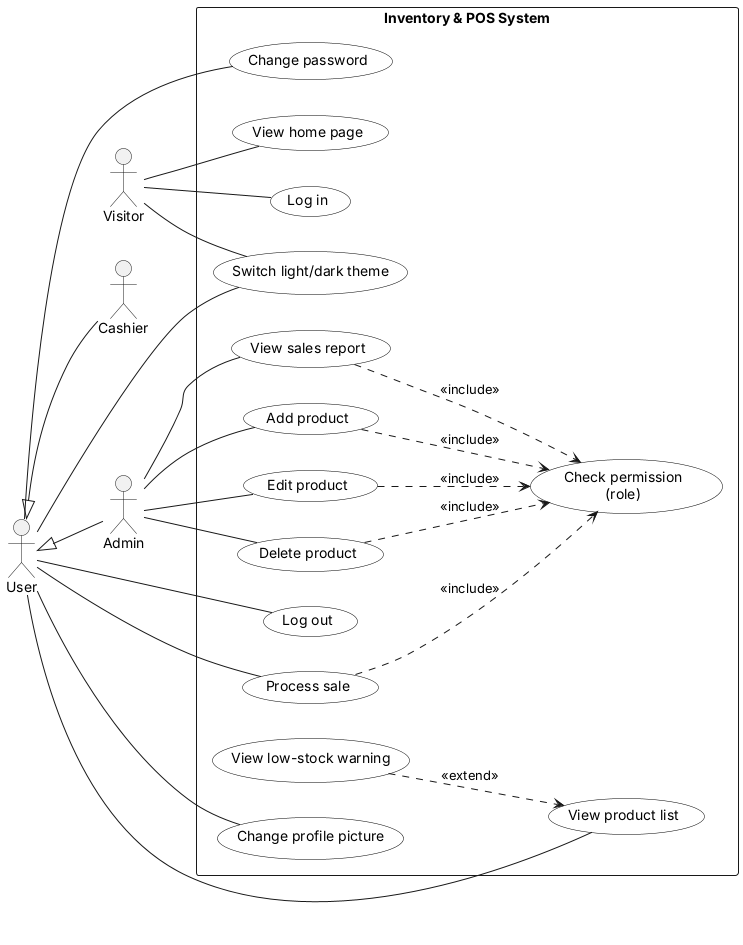
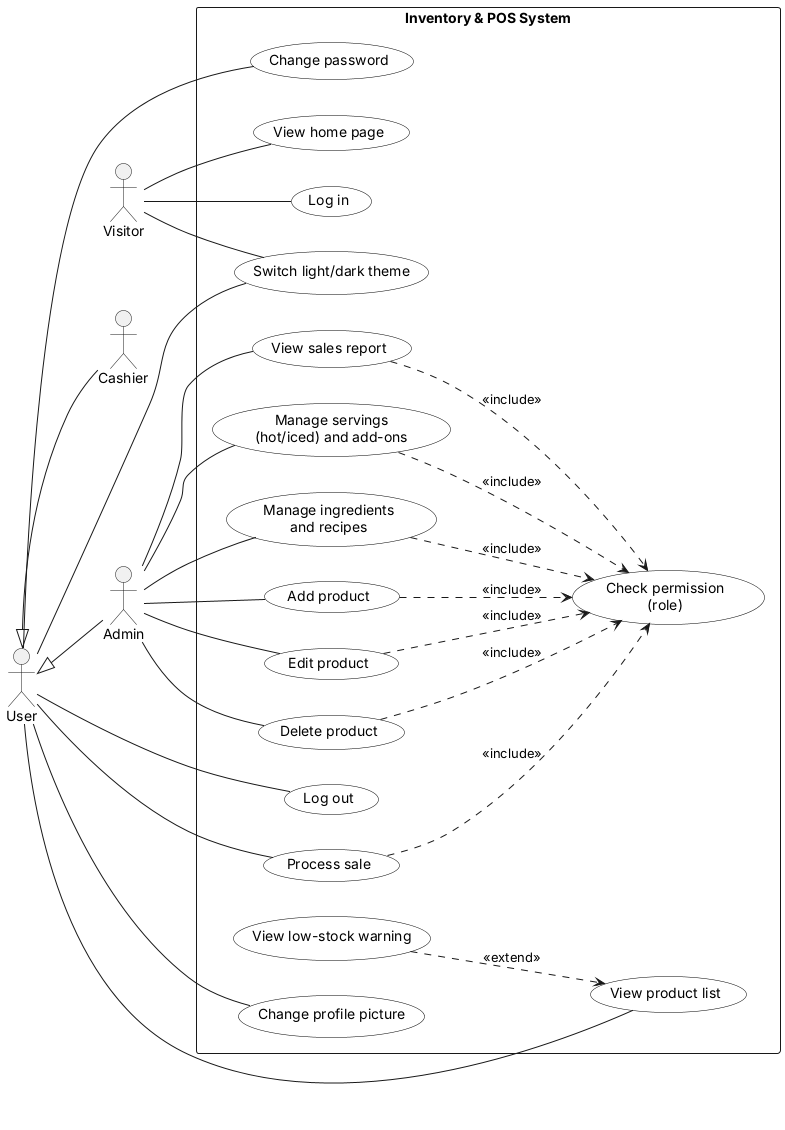
Docs: v0.14.4 to v0.17.3 (GCash, servings and add-ons, ingredients, demo sales fix)
Version history, stories F14-F16 (Hot / Iced wording), test cases
TC-14.19, TC-15.x, TC-16.x, TC-17.x (178 cases: 176 pass, 0 fail,
2 by hand), DEF-37 to DEF-42, security table rows, UC-14 and UC-15,
diagram and known limitations.

Claude-Session: https://claude.ai/code/session_01AnRZgfVLrJe4aroni2zZdi

diff --git a/project_documentation_draft.md b/project_documentation_draft.md
@@ -1,7 +1,7 @@
 # Inventory & POS System — Project Documentation Draft
 
 > **Living document.** Add to it after every iteration (version tag). Don't wait until the end.
-> This draft covers the system up to **v0.14.3** (2026-10-09). Versions v0.8.2–v0.14.3 were implemented and tested by Claude on request
+> This draft covers the system up to **v0.17.3** (2026-10-09). Versions v0.8.2–v0.17.3 were implemented and tested by Claude on request
 > (time constraint: finals), following the same branch → pull request → merge → tag workflow and the stabilization rule.
 > Rebuilt on 2026-10-03 from the Git history and the source code, and tested against v0.7.0.
 >
@@ -33,7 +33,7 @@
 | Project name | Inventory & POS (Point-of-Sale) System |
 | Type | Web application |
 | Developer | Solo project |
-| Business purpose | Help a small store keep track of its products and stock and record sales at the counter. From v0.14.0 the demo shop is a **café** (coffee and pastries), because a café owner is interested in the project |
+| Business purpose | Help a small store keep track of its products and stock and record sales at the counter. From v0.14.0 the demo shop is a **café** (coffee and pastries), because a café owner is interested in the project. From v0.15.0–v0.17.0 it handles what that café needs: **GCash payments, Hot / Iced and add-ons, and ingredient stock with recipes**. The café's real menu and photos are loaded only on the student's computer (`local_demo/`, not on GitHub) |
 | Language / framework | Python 3.11.9, Flask 3.1.3 |
 | Database | SQLite, accessed through Flask-SQLAlchemy 3.1.1 |
 | Login and security | Flask-Login 0.6.3; passwords hashed with Werkzeug (scrypt); CSRF tokens, login attempt limit, secret key outside the code (v0.13.1–v0.13.5) |
@@ -87,7 +87,10 @@ Specification, development and validation are *interleaved* (they overlap) inste
 | v0.13.0 | Modern theme: left sidebar, light/dark switch, dashboard home | Yes: same features, new look |
 | v0.13.1–v0.13.5 | Security patches: secret key, CSRF, login limit, debug off + headers, change password | Yes: each attack re-run and now blocked |
 | v0.14.0 | Product pictures, tap-to-add menu on New Sale, café demo menu | Yes |
-| v0.14.1–v0.14.3 | Stabilization patches: long names, menu order + remembered category, phone basket bar | Yes |
+| v0.14.1–v0.14.4 | Stabilization patches: long names, menu order + remembered category, phone basket bar, basket Remove button | Yes |
+| v0.15.0 | Payment method: Cash or GCash (reference number) | Yes |
+| v0.16.0–v0.16.1 | Servings (sizes) and add-ons for drinks (+ edge-case patch) | Yes |
+| v0.17.0–v0.17.3 | Ingredients, recipes and ingredient history (+ deleted-product recipe patch, Hot / Iced wording, demo sales fix) | Yes: drinks are limited by milk and beans on hand |
 | v1.0.0 → | Presentation release (planned) | — |
 
 **Why incremental, and not the other two?**
@@ -158,6 +161,15 @@ The tag message summarizes what the increment added.
 | v0.14.1 | 2026-10-09 | `2795482` | Very long names wrap on the menu and in tables *(pull request #28)* |
 | v0.14.2 | 2026-10-09 | `afea681` | Menu in category order; chosen category kept after each tap *(pull request #29)* |
 | v0.14.3 | 2026-10-09 | `e598e88` | Phone basket bar; table columns stay readable *(pull request #30)* |
+| — | 2026-10-09 | — | Documentation update for v0.13.1–v0.14.3 *(pull request #31, no tag)* |
+| v0.14.4 | 2026-10-09 | `8a34326` | Basket Remove button always visible; menu and basket side by side from 1200 px *(pull request #32)* |
+| v0.15.0 | 2026-10-09 | `aa44988` | Cash or GCash payment with a 13-digit reference; receipt and report show the method *(pull request #33)* |
+| v0.16.0 | 2026-10-09 | `40555c0` | Sizes and add-ons: admin page, drink window on New Sale, options on receipts *(pull request #34)* |
+| v0.16.1 | 2026-10-09 | `2f97c8d` | Sizes/add-ons edge cases: unticked product, very long add-on list *(pull request #35)* |
+| v0.17.0 | 2026-10-09 | `4492d92` | Ingredients, recipes, can-make counts, ingredient history; sales use ingredients up *(pull request #36)* |
+| v0.17.1 | 2026-10-09 | `63f9d53` | A deleted product's recipe is deleted too (no inherited recipes) *(pull request #37)* |
+| v0.17.2 | 2026-10-09 | `da4a932` | The one-of choice is called a *serving*, so the café's Hot / Iced reads naturally (sizes still possible) *(pull request #38)* |
+| v0.17.3 | 2026-10-09 | `a7cd2e5` | Demo sales include products whose stock comes from ingredients (no more ₱0 demo receipts) *(pull request #39)* |
 
 *From v0.8.2 the Commit column shows the commit with the change; the tag sits on the GitHub merge commit of that pull request.
 Pull request numbers assume the versions were published in order in one session.*
@@ -298,6 +310,30 @@ At the counter, Juan opens **New Sale** and sees the menu as picture tiles group
 *(v0.14.2)*. Each tile shows what is left ("3 left" in amber when low). The basket sits beside the menu on the
 laptop; on his phone a bar at the bottom shows *"2 items · ₱190.00 — Pay"* and jumps to the basket *(v0.14.3)*.
 For an exact quantity he can still use the product list and the Quantity box below the menu.
+
+### Story F14 — Paying by GCash *(v0.15.0)*
+A customer orders a Sea Salt and a croffle (₱340.00) and wants to pay by GCash. Juan taps **GCash** in the payment box:
+the cash fields disappear and a box asks for the **reference number**. The customer pays in the GCash app and shows the
+receipt; Juan types its 13-digit reference (`1023 456 789012`) and checks that the amount is ₱340.00, then clicks
+**Complete Sale**. The receipt says *Paid by GCash* with the reference and no change. If he types a reference that was
+already used, the system names the earlier receipt. At closing, the Sales Report shows revenue split into cash (what
+should be in the drawer) and GCash.
+
+### Story F15 — Hot / Iced and add-ons *(v0.16.0–v0.16.1, wording v0.17.2)*
+Maria sets up the servings (**Hot** and **Iced**, same price; v0.16.0 called them sizes, and a shop can still use
+12oz / 16oz +₱20) and the café's upgrades (Espresso +₱30, Sub Oat +₱40, Cold Foam +₱30…) on the **Servings & Add-ons**
+page, and ticks "Drink" on each latte. The Iced serving has its own recipe: 150 g of ice and an iced cup. When Juan
+taps **Sea Salt**, a small window opens: he picks **Iced** and **Sub Oat**, and the button shows *Add 1 · ₱220.00*.
+The basket shows the line as *Sea Salt — Iced, Sub Oat*, separate from a Hot Sea Salt, and the receipt keeps the
+options and the price paid, even if the add-on price changes later.
+
+### Story F16 — Ingredients and recipes *(v0.17.0–v0.17.1)*
+Maria enters what is in the stock room on the **Ingredients** page (espresso beans 3,000 g, fresh milk 10,000 ml, oat milk
+2,000 ml, croissant dough 24 pcs…) and a **recipe** for each product: one Sea Salt uses 18 g of beans, 160 ml of milk and
+40 ml of cream; Sub Oat replaces the fresh milk with oat milk; a 16oz uses 1.33 times as much. The menu now shows how
+many of each drink can still be made. When the oat milk runs low, Home warns her; when a delivery arrives she clicks
+**Restock** (+2,000 ml), and after counting the shelf at night she uses **Count**. Every change (each sale, delivery
+and count) appears in the ingredient history with who did it and which receipt it belongs to.
 
 ---
 
@@ -590,13 +626,67 @@ Each row is an attack or misuse tried on purpose (on the code published as v0.13
 | TC-14.16 | Phone, basket table | Read the names | Normal names on one line | **v0.14.1–v0.14.2:** "Ensaymada" one letter per line · **v0.14.3:** fixed | ❌→✅ DEF-36 |
 | TC-14.17 | `seed_demo_data.py --fresh` at 3:30 PM | Run it | Old database renamed as a backup; 22 café items; sales for 7 days + today until 3:30 PM only; receipt numbers in time order | As expected (today: 4 sales, 7:09 AM–2:32 PM) | ✅ |
 | TC-14.18 | All earlier tests | Full regression (10 suites + avatar + security + pictures) | Everything passes | As expected | ✅ |
+| TC-14.19 | Window 992–1360 px wide, 3 items in the basket | Look at the basket | Remove (×) button visible on every line | **v0.14.3:** cut off at the right edge · **v0.14.4:** visible at 390, 768, 992, 1100, 1199, 1200 and 1360 px | ❌→✅ DEF-37 |
+
+### F14 — Payment method *(v0.15.0)*
+
+| ID | Precondition | Steps / input | Expected result | Actual result | Pass? |
+|---|---|---|---|---|---|
+| TC-15.1 | Database from v0.14 | Start the app | `payment_method`, `payment_reference` and a unique index added; old sales count as cash | As expected | ✅ |
+| TC-15.2 | Basket ₱360 | Pay cash ₱400 (old form, no method sent) | Cash, change ₱40 | As expected | ✅ |
+| TC-15.3 | Basket ₱360 | GCash, reference `1234 567 890123` | Saved as 13 digits, cash = total, change 0, stock deducted | As expected | ✅ |
+| TC-15.4 | GCash sale | Open the receipt | "Paid by GCash" + reference, no Change line | As expected | ✅ |
+| TC-15.5 | Basket | GCash references: 12 digits, 14 digits, letters, Arabic digits, empty | Refused, nothing saved, stock unchanged | As expected (5 cases) | ✅ |
+| TC-15.6 | Reference already used | GCash with the same reference | Refused, names the earlier receipt | As expected | ✅ |
+| TC-15.7 | Two sales with the same reference at the same moment | Save both | Database refuses the second (unique index) | As expected | ✅ |
+| TC-15.8 | Basket | Method `card` (not offered) | Refused | As expected | ✅ |
+| TC-15.9 | Sales of both kinds | Sales Report | Revenue split "Cash ₱… · GCash ₱…"; Paid by column | As expected | ✅ |
+| TC-15.10 | Browser | Tap GCash, then Cash | Cash boxes hide/show; empty reference blocked by the browser; change preview still works | As expected | ✅ |
+
+### F15 — Sizes and add-ons *(v0.16.0, v0.16.1)*
+
+| ID | Precondition | Steps / input | Expected result | Actual result | Pass? |
+|---|---|---|---|---|---|
+| TC-16.1 | Database from v0.15 | Start the app | `menu_option` table, `has_options`, `options` columns added | As expected | ✅ |
+| TC-16.2 | Admin | Add sizes and add-ons; duplicate name, negative/nan price, 51-char name, unknown kind | Saved / each refused with a message | As expected | ✅ |
+| TC-16.3 | Cashier | Open or post to Sizes & Add-ons | 403 | 403 | ✅ |
+| TC-16.4 | Sea Salt ₱180 | 2 × 16oz + Sub Oat + Espresso | One line, ₱270.00 each, ₱540.00 | As expected | ✅ |
+| TC-16.5 | Same choice ticked in another order | Add | Joins the same line | As expected | ✅ |
+| TC-16.6 | 3 in stock, 2 in basket (any sizes) | Add 2 more | Refused: only 1 more | As expected | ✅ |
+| TC-16.7 | — | Size id of an add-on, unknown size, size as add-on, non-number add-on | Refused | As expected | ✅ |
+| TC-16.8 | List form (no size sent) / croffle with options sent | Add | Default size at base price / options ignored | As expected | ✅ |
+| TC-16.9 | Two lines of one product | Remove one line | Only that line removed | As expected | ✅ |
+| TC-16.10 | Basket with options | Complete; then raise the add-on price | Receipt keeps options + price paid; stock reduced by all lines; report counts the product once | As expected | ✅ |
+| TC-16.11 | Line in basket | Admin unticks "sizes and add-ons" on that product | Line taken out with a message | **v0.16.0:** sold as "16oz" at the size price · **v0.16.1:** taken out | ❌→✅ DEF-38 |
+| TC-16.13 | Servings Hot and Iced (₱0); Iced recipe: 150 g ice + 1 iced cup | Iced Sea Salt + Sub Oat, and a Hot Campfire Latte; complete | ₱220.00 and ₱190.00; ice −150 g, iced cups −1, hot cups −1, oat milk −180 ml, fresh milk unchanged | As expected (v0.17.2) | ✅ |
+| TC-16.14 | Café menu | Look at the tiles and the drink window | Tiles say "Hot / Iced · add-ons"; window says "Serving"; admin page "Servings & Add-ons" | **v0.16.0–v0.17.1:** "Size" · **v0.17.2:** as expected | ❌→✅ DEF-41 |
+| TC-16.12 | 6 add-ons with 50-character names | Complete the sale | Options text fits the 200-character column | **v0.16.0:** 316 characters saved · **v0.16.1:** shortened with "…" | ❌→✅ DEF-39 |
+
+### F16 — Ingredients and recipes *(v0.17.0, v0.17.1)*
+
+| ID | Precondition | Steps / input | Expected result | Actual result | Pass? |
+|---|---|---|---|---|---|
+| TC-17.1 | Admin | Add ingredients; duplicate name, unit `kg`, negative warn-at | Saved / refused | As expected | ✅ |
+| TC-17.2 | Ingredient | Restock +1000; restock 0, -5, nan, abc, 1e12 | Added and written in the history / refused | As expected | ✅ |
+| TC-17.3 | Cream 400 ml | Count = 380 | Set to 380, history shows -20 | As expected | ✅ |
+| TC-17.4 | Recipes | Product: negative amount, same ingredient twice / add-on: negative amount | Refused, refused / allowed (replaces milk) | As expected | ✅ |
+| TC-17.5 | Milk 1,000 ml; Sea Salt uses 180 ml | Products list and New Sale | "5 can make", Low badge; tile "5 left" | As expected | ✅ |
+| TC-17.6 | 2 × 16oz (scale 1.5) in the basket | New Sale | "2 left" (460 ml ÷ 180) | As expected | ✅ |
+| TC-17.7 | Not enough milk for 2 more | Add | Message names the ingredient and amounts | "Not enough Fresh milk … 1,080 ml, only 1,000 ml on hand" | ✅ |
+| TC-17.8 | Basket: 2 × 16oz, 1 × Sub Oat, 1 croffle | Complete | Milk 460, oat 1,820, beans 928, cream 220; croffle 3 → 2; history lines linked to the receipt | As expected | ✅ |
+| TC-17.9 | Milk drops to 100 ml before checkout | Complete | Refused, nothing saved | As expected | ✅ |
+| TC-17.10 | Another till uses up every ingredient between the check and the save | Complete | Whole sale cancelled, croffle stock restored | As expected | ✅ |
+| TC-17.11 | 20 cashiers sell a latte at the same moment, milk for 5 | Complete all | Exactly 5 sold, milk 0, never negative, history adds up | 5 completed, 15 refused, 0 errors | ✅ |
+| TC-17.12 | Cashier | Ingredients / recipe pages; another recipe's line; unknown kind | 403 / 404 / 404 | As expected | ✅ |
+| TC-17.13 | Product with a recipe, never sold | Delete it, then add a new product (SQLite reuses the id) | New product has no recipe | **v0.17.0:** new cookie inherited the recipe (could sell 4 instead of 20) · **v0.17.1:** no recipe | ❌→✅ DEF-40 |
+| TC-17.14 | Café menu in `local_demo/` (every product has a recipe, quantity 0) | `python seed_demo_data.py --fresh` | Real demo sales with items and totals | **v0.17.2:** 56 receipts of ₱0.00 with no items (Home showed 8 sales but only the newest one's revenue) · **v0.17.3:** 52 real sales | ❌→✅ DEF-42 |
 
 > **How these were run (F8–F10, patches):** on 2026-10-09 by Claude, using the Flask test client, a threaded server
 > for TC-7.26, and a real browser (Chromium with Bootstrap) for the screen checks (TC-8.8, TC-10.3, TC-10.4) and the
 > change preview. Every version was also re-run against **all earlier tests** (regression). Hand checks and
 > screenshots by Yesha are still to do for the report.
 
-### Test summary (v0.7.0 → v0.14.3)
+### Test summary (v0.7.0 → v0.17.3)
 
 | Feature | Cases | ✅ Pass | ❌ Fail | ⚠/⏳ Other |
 |---|---|---|---|---|
@@ -614,8 +704,11 @@ Each row is an attack or misuse tried on purpose (on the code published as v0.13
 | F10 Profile picture | 11 | 11 | 0 | 0 |
 | F11 Modern theme | 9 | 7 → **9** | 2 → **0** | 0 |
 | F12 Security | 14 | 8 → **14** | 6 → **0** | 0 |
-| F13 Pictures + café | 18 | 13 → **18** | 5 → **0** | 0 |
-| **Total** | **139** | **101 → 137** | **35 → 0** | **3 → 2** |
+| F13 Pictures + café | 19 | 13 → **19** | 6 → **0** | 0 |
+| F14 Payment method | 10 | 10 | 0 | 0 |
+| F15 Servings + add-ons | 14 | 11 → **14** | 3 → **0** | 0 |
+| F16 Ingredients | 14 | 12 → **14** | 2 → **0** | 0 |
+| **Total** | **178** | **134 → 176** | **41 → 0** | **3 → 2** |
 
 *F1–F6: numbers shown as v0.7.0 → v0.7.1; on 2026-10-04 the full suite was re-run against the merged v0.7.1 code (`6043cdb`): all five failures now pass, and every test that passed before still passes. Checking that old features still work after a change is called **regression testing**. F7: numbers shown as first run → v0.8.1; on 2026-10-08 the F1–F6 suite was re-run against v0.8.0 and still passes.*
 
@@ -665,6 +758,17 @@ Each row is an attack or misuse tried on purpose (on the code published as v0.13
 | DEF-34 | Medium (usability) | Each tap reloaded the menu back to "All", so the cashier had to choose the category again for every item | v0.14.x stabilization (TC-14.14) | Chosen category remembered for the browser tab | ✅ Fixed v0.14.2 |
 | DEF-35 | Medium (usability) | On phones the basket and Pay button were below the whole menu | v0.14.x stabilization (TC-14.15) | Bottom bar with item count and total that jumps to the basket | ✅ Fixed v0.14.3 |
 | DEF-36 | Medium (regression from v0.14.1) | On phones, basket names were squeezed to one letter per line | v0.14.x stabilization (TC-14.16) | Table cells wrap only long words; names kept 8–22rem wide | ✅ Fixed v0.14.3 |
+| DEF-37 | Medium (usability) | Between about 990 and 1360 px wide, the basket's Remove (×) button was cut off | Screenshot review while testing v0.15.0 (TC-14.19) | Quantity under the name, tighter cells, side-by-side only from 1200 px | ✅ Fixed v0.14.4 |
+| DEF-38 | Medium | Unticking "sizes and add-ons" on a product left basket lines that were then sold with the size price | v0.16.x stabilization (TC-16.11) | Such lines are taken out with a message | ✅ Fixed v0.16.1 |
+| DEF-39 | Low | Many long add-on names gave options text longer than the 200-character column | v0.16.x stabilization (TC-16.12) | Shortened with "…" | ✅ Fixed v0.16.1 |
+| DEF-40 | **High** (data integrity) | Deleting a never-sold product left its recipe; SQLite gave the id to the next product, which inherited the recipe | v0.17.x stabilization (TC-17.13) | Recipe deleted with the product; start-up removes leftovers | ✅ Fixed v0.17.1 |
+| DEF-41 | Low (usability) | The café sells drinks Hot or Iced, but the screens said "Size", so "Size: Iced" read wrongly | Choice made with Yesha for the café (TC-16.14) | The choose-one group is called a *serving* on every screen; tiles list the servings ("Hot / Iced") | ✅ Fixed v0.17.2 |
+| DEF-42 | Medium (demo data) | With the café's menu every product gets its stock from ingredients (quantity 0), so the demo sales found no product to sell and created only empty ₱0.00 receipts | Screenshot review of v0.17.2 (Home: 8 sales, ₱570.00) (TC-17.14) | Demo sales pick products that can be made (`stock_levels()`); no sales are created if nothing can be sold; new `test_seed.py` checks both menus | ✅ Fixed v0.17.3 |
+
+> **Note on the test tools (v0.16.0):** two race tests (TC-7.24–7.26) found the "other cashier" moment by counting
+> database look-ups, which changed when the basket code changed, so they briefly reported false failures. They now
+> step in right before the stock update itself, and pass on both the old and the new code. Lesson: a test should
+> depend on *what* the code does, not on *how* it is written.
 
 > **How the v0.7.1 fix works.** All checks live in one function, `validate_product_form()` in `app.py`, used by
 > both Add and Edit (the **DRY** principle: Don't Repeat Yourself). It returns either clean data or an error
@@ -675,18 +779,19 @@ Each row is an attack or misuse tried on purpose (on the code published as v0.13
 > column) needs a **migration**: a small, deliberate script run once, after a backup. Real projects use a migration
 > tool (e.g. Flask-Migrate) to keep these in order.
 
-> **Known limitations after v0.14.3** (future increments):
-> - **Drinks are counted as cups, not ingredients.** A real café runs out of milk or beans, not "lattes". Fix: recipes (each drink uses grams of beans and ml of milk) and ingredient stock.
-> - **Sizes are separate products** (Latte 12oz and 16oz). Fix: product *variants* (one product, several sizes and prices).
+> **Known limitations after v0.17.3** (future increments):
+> - **Recipe amounts are estimates** (e.g. 18 g beans per shot, 150 g ice for Iced) until the café owner confirms them; the admin can edit them. If a shop uses sizes instead, a size's scale also multiplies add-ons (an extra shot in a 16oz counts 1.33 shots).
+> - **GCash is recorded, not verified:** the cashier checks the amount on the customer's screen. Automatic checking needs a GCash merchant account.
+> - **Count (stock count) overwrites** an ingredient's amount on purpose; a sale at that exact moment would be overwritten (Restock adds safely).
+> - **The shop name on receipts is fixed** ("Inventory & POS").
 > - **Sold-out items are hidden from the menu** instead of shown greyed out.
 > - **Product pictures and avatars are files on disk**, so backing up the database alone does not back them up.
 > - **The login limit is kept in memory**, so restarting the app clears it, and **nobody can reset a forgotten password** except by changing it in the database. Fix: an admin "reset password" page.
 > - **No Content-Security-Policy header** yet, because the pages use inline scripts and CDN files.
 > - **Styling comes from the internet** (Bootstrap, icons and font from CDNs, i.e. content delivery networks). Without internet the system still works but looks unstyled. Fix: save those files in `static/` so it runs fully offline.
 > - **The light/dark choice is saved per browser**, not per user account.
-> - **Cash only.** GCash/card would need a payment-method choice, recorded but not connected to GCash itself, which needs a merchant account.
 > - **No refunds or voids.** To be handled by a *void with admin approval* flow (Completed → Void requested → Voided / Rejected), which also gives the state diagram.
-> - **Editing a product's stock overwrites it with the number typed in.** If a sale happens while the edit form is open, that sale's deduction is overwritten. Fix: "restock by amount" plus a **stock ledger** (a record of every stock change).
+> - **Editing a product's stock overwrites it with the number typed in** (products without a recipe). Ingredients already have Restock-by-amount and a history (v0.17.0); products could get the same.
 > - **Sold products can't be deleted, only set to 0**, so they stay in the list with an "Out of stock" badge. Fix: an "archive" option.
 > - **One low-stock threshold (5) for every product.** Fix: a per-product threshold (needs a database column, i.e. a migration).
 > - **Money stored as `Float`**, rounded to centavos. Real POS systems store whole centavos or `Decimal`.
@@ -710,6 +815,9 @@ Good material for the professor's Lecture 11 (security terminology, vulnerabilit
 | Cashier uses admin pages | Products, reports | `@admin_required` → 403 | TC-6.x | ✅ since v0.7.0 |
 | Upload a harmful file as a "picture" | Server, other users | Content check (PNG/JPG/WebP bytes), 2 MB limit, random names, `nosniff` | TC-11.5–11.7, TC-14.3, TC-14.9 | ✅ |
 | Two sales take the last item at once | Stock accuracy | Atomic conditional update | TC-7.24–7.26 | ✅ since v0.8.2 |
+| Two tills use the same milk at once | Ingredient stock | Same atomic update for every ingredient; whole sale cancelled otherwise | TC-17.10, 17.11 | ✅ v0.17.0 |
+| Reuse one GCash payment for two purchases | Café's money | Reference number must be unique (checked + unique index) | TC-15.6, 15.7 | ✅ v0.15.0 |
+| Untraceable stock changes | Ingredient stock | Ingredient history: every sale, restock and count with user and time | TC-17.2, 17.3, 17.8 | ✅ v0.17.0 |
 
 Words used: **threat** (something that could cause harm), **vulnerability** (a weakness it can use), **control**
 (the protection), **attack** (an attempt to exploit a vulnerability).
@@ -739,6 +847,8 @@ then a tabular description of each, in the format of Sommerville's Lecture 5 p. 
 | UC-11 | Change profile picture | User (Admin and Cashier) | Built (v0.12.0) |
 | UC-12 | Switch light/dark theme | Visitor and User | Built (v0.13.0) |
 | UC-13 | Change password | User (Admin and Cashier) | Built (v0.13.5) |
+| UC-14 | Manage servings and add-ons | Admin | Built (v0.16.0) |
+| UC-15 | Manage ingredients and recipes | Admin | Built (v0.17.0) |
 
 **Relationships between use cases** (needed for the diagram):
 - UC-05, UC-06, UC-07, UC-08 and UC-10 all **«include»** a hidden step, *Check permission (role)*. «include» means
@@ -879,6 +989,28 @@ then a tabular description of each, in the format of Sommerville's Lecture 5 p. 
 | **Stimulus** | Avatar menu → Change password, fill in the form, click Change password |
 | **Response** | Password changed with a success message; or a message if the current password is wrong, the two don't match, it equals the username or is shorter than 8 characters |
 | **Comments** | Includes *Check permission* (must be logged in) and the CSRF token check |
+
+**UC-14 Manage servings and add-ons** *(built v0.16.0, renamed v0.17.2)*
+
+| | |
+|---|---|
+| **Actors** | Admin |
+| **Description** | Keeps the list of servings (Hot / Iced, or sizes; exactly one per drink) and add-ons (any number) with their extra prices |
+| **Data** | `menu_option`: kind (size/add-on), name, extra price, offered or hidden, order, recipe scale (sizes) |
+| **Stimulus** | Admin opens Servings & Add-ons, edits a row or adds one |
+| **Response** | Saved; hidden options disappear from the drink window; baskets holding them lose that line with a message |
+| **Comments** | Includes *Check permission* (admin only). Options are hidden, never deleted, because receipts and recipes refer to them |
+
+**UC-15 Manage ingredients and recipes** *(built v0.17.0)*
+
+| | |
+|---|---|
+| **Actors** | Admin |
+| **Description** | Records ingredient stock (restock, count) and what each product, size and add-on uses |
+| **Data** | `ingredient` (name, unit, on hand, warn at), `recipe_item` (ingredient, amount, product or option), `ingredient_movement` (history) |
+| **Stimulus** | Admin opens Ingredients or a product's / option's Recipe page |
+| **Response** | Stock and recipes saved; the menu's "left" counts follow; low ingredients are flagged on Home |
+| **Comments** | Includes *Check permission*. UC-08 *Process sale* now uses ingredients up, so UC-08 depends on this use case |
 
 ---
 
